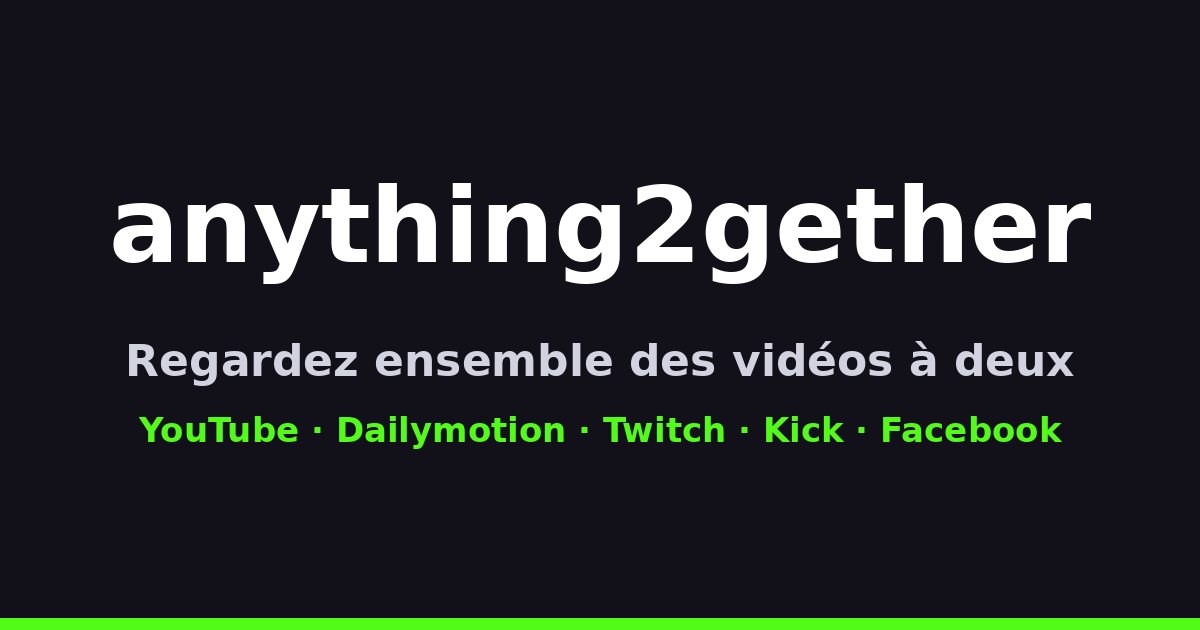
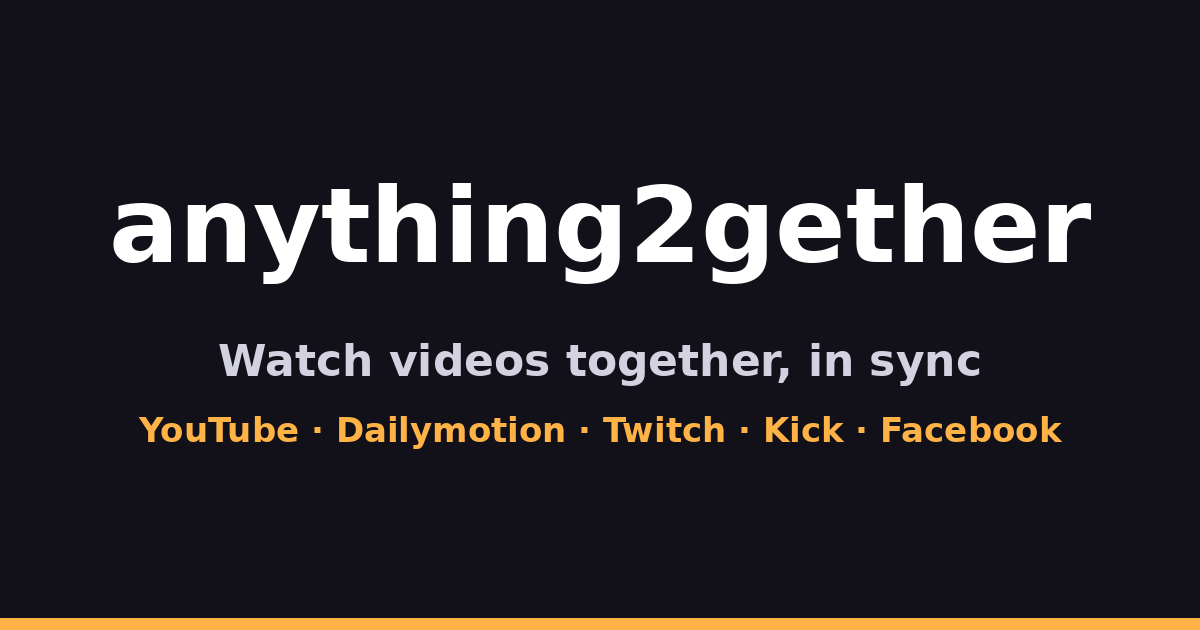
Add files via upload

diff --git a/js/app-3.js b/js/app-3.js
@@ -2833,7 +2833,7 @@
      Le service de comptes (Firebase) est chargé à part ; il annonce l'utilisateur par l'événement « a2g-user ».
      Connecté : le prénom vient du compte, et l'ID de salle est calculé à partir du compte (le même sur tous les appareils). */
   /* ---------- langue de l'accueil et nom affiché ---------- */
-  var I18N = {"fr": {"lede": "Regardez une vidéo à deux, en même temps, même à distance. Choisissez une vidéo publique (YouTube, Dailymotion, Twitch, Kick, Facebook) ou un fichier que vous possédez : la lecture, la pause et la position sont synchronisées, avec un chat à côté. Les fichiers passent directement entre vous, sans être stockés sur nos serveurs.", "name": "Ton pseudo", "theme": "🎨 Thème", "login": "Se connecter", "signup": "Créer un compte", "logout": "Se déconnecter", "f1": "Regarder ensemble des vidéos Dailymotion, YouTube, Twitch, Kick et Facebook", "f2": "Partage de fichier vidéo en direct", "f3": "Lecture, pause et avance synchronisées", "f4": "Chat, émojis et photos pendant le film", "f5": "Thème et fond d'écran partagés", "f6": "Sans serveur : le fichier passe directement entre vous", "create_h": "Créer une salle", "id_label": "Ton ID de salle", "devnote": "Fixe sur cet appareil. Ton ami a besoin de cet ID et du code ci-dessous.", "fixed_chk": "Garder toujours le même code", "fixed_lbl": "Ton code (6 lettres ou chiffres, modifiable)", "random": "Aléatoire", "create_btn": "Créer la salle", "join_h": "Rejoindre une salle", "join_id_lbl": "ID de la salle (9 chiffres)", "join_code_lbl": "Code d'accès (6 caractères)", "join_btn": "Rejoindre", "f_about": "À propos", "f_privacy": "Confidentialité", "f_terms": "Conditions", "f_contact": "Contact", "consent": "Ce site utilise des cookies et le stockage de ton navigateur pour fonctionner (préférences, session de salle). Si des publicités sont affichées, Google peut aussi utiliser des cookies pour les personnaliser.", "learn": "En savoir plus", "consent_ok": "J'ai compris", "err_name": "Choisis ton pseudo avant d'entrer dans la salle.", "au_home": "Accueil", "au_login_title": "Connectez-vous à votre compte", "au_signup_title": "Créez votre compte", "au_email": "E-mail", "au_pass": "Mot de passe", "au_show": "Afficher", "au_forgot": "Mot de passe oublié ?", "au_login_btn": "Connexion", "au_google": "Continuer avec Google", "au_to_signup": "Pas de compte ? Créez-en un", "au_have": "Vous avez déjà un compte ?", "au_login_link": "Connectez-vous !", "au_first": "Prénom", "au_last": "Nom", "au_pass_hint": "6 caractères minimum", "au_create": "Créer mon compte", "note": "Dans la salle, celui qui possède la vidéo la choisit. Pour un MP4, l'autre peut lancer la lecture après quelques secondes. Pour les autres formats, il faut attendre la fin du transfert. Gardez l'onglet ouvert.", "inv_pre": "Tu es invité dans la salle", "inv_own": "Créer ma propre salle", "legal_close": "Fermer", "r_copy": "Copier le lien", "r_wait": "En attente d'un ami…", "r_leave": "Quitter", "r_drop": "Il sera envoyé à ton ami, qui pourra le regarder pendant la réception. Si c'est lui qui l'a, attends qu'il le choisisse.", "r_pick": "Choisir un fichier vidéo", "r_ytdrop": "▶ Lire depuis une plateforme", "r_qtitle": "File d'attente", "r_qadd": "Ajouter des vidéos", "r_qclear": "Vider", "r_close": "Fermer", "r_tap": "Appuie pour lancer la lecture", "r_size": "Taille", "r_chat_hide": "Masquer le chat", "r_nov": "Aucune vidéo pour l'instant", "r_sync": "Synchroniser", "r_sync_tt": "Envoie ta position à tout le monde", "r_change": "Envoyer une vidéo", "r_yt": "▶ Lecture depuis plateformes", "r_theme": "🎨 Thème", "r_sub": "Sous-titres", "r_full": "Plein écran", "r_fit_contain": "Ajuster (tout voir)", "r_fit_cover": "Remplir (rogne les bords)", "r_fit_fill": "Étirer", "r_zoom": "Zoom", "r_chat": "Chat", "r_small": "Petit", "r_medium": "Moyen", "r_large": "Grand", "r_xlarge": "Très grand", "r_msg_ph": "Écrire un message…", "r_send": "Envoyer", "r_yt_title": "Lecture depuis plateformes", "r_choose_pf": "Choisis la plateforme", "r_back_pf": "← Autres plateformes", "r_go": "Lire pour tous", "r_stop": "Arrêter la lecture", "r_ytmsg": "YouTube : lecture, pause et avance sont synchronisées entre vous.", "r_url": "Lien de la vidéo", "scr_start": "🖥 Partager l'écran", "scr_stop": "⏹ Arrêter le partage", "scr_on": "Tu partages ton écran avec ton ami.", "scr_off": "Partage d'écran arrêté.", "scr_refused": "Partage d'écran annulé.", "scr_nosupport": "Le partage d'écran marche seulement sur ordinateur.", "src_file": "Fichier vidéo", "drop_title": "Choisis ta source", "r_url_spot": "Lien Spotify (titre, album ou playlist)", "pin_copy_id": "Copier l'ID", "pin_copy_code": "Copier le code", "sp_login": "Se connecter à Spotify", "sp_logged": "Connecté à Spotify : ", "sp_noid": "Connexion Spotify pas encore configurée.", "sp_fail": "La connexion Spotify a échoué. Réessaie.", "scr_label": "Partager l'écran", "scr_stop2": "Arrêter le partage", "sp_addr": "Adresse envoyée à Spotify : ", "sp_connecting": "Connexion en cours…", "sp_opened": "Spotify ouvert.", "sp_bad_link": "Ce lien n'est pas un lien Spotify (titre, album, playlist ou épisode).", "sp_logged_in": "Connecté à Spotify : ", "pf_yt_audio": "YouTube audio seul", "yt_audio_t": "Mode audio seul", "yt_audio_s": "La vidéo est masquée. Le son continue.", "yt_audio_play": "▶ Lire", "yt_audio_pause": "⏸ Pause", "yt_audio_change": "Choisir une autre vidéo ou playlist", "yt_audio_opt": "Audio seul (masquer la vidéo)", "multi_label": "Multi-vidéo", "multi_title": "Multi-vidéo (YouTube ou Twitch)", "multi_top": "Vidéo du haut (lien)", "multi_bottom": "Vidéo du bas (lien)", "multi_go": "Lancer", "multi_cancel": "Annuler", "multi_bad": "Les deux liens doivent être YouTube ou les deux Twitch, et valides.", "multi_opened": "Multi-vidéo ouverte. Les deux vidéos sont synchronisées.", "multi_fit_all": "Tout voir", "multi_fit_fill": "Remplir l'écran", "multi_manual": "La vidéo du bas ne démarre pas toute seule : appuie sur son bouton lecture.", "mv_stuck": "Une des deux vidéos ne répond pas. Clique une fois dedans pour l'activer."}, "en": {"lede": "Watch a video together, at the same time, even from a distance. Choose a public video (YouTube, Dailymotion, Twitch, Kick, Facebook) or a file you own: play, pause and position are synced, with a chat on the side. Files go directly between you, without being stored on our servers.", "name": "Your nickname", "theme": "🎨 Theme", "login": "Log in", "signup": "Create account", "logout": "Log out", "f1": "Watch Dailymotion, YouTube, Twitch, Kick and Facebook videos together", "f2": "Live video file sharing", "f3": "Synced play, pause and seek", "f4": "Chat, emojis and photos during the movie", "f5": "Shared theme and wallpaper", "f6": "No server: the file goes directly between you", "create_h": "Create a room", "id_label": "Your room ID", "devnote": "Fixed to this device. Your friend needs this ID and the code below.", "fixed_chk": "Always keep the same code", "fixed_lbl": "Your code (6 letters or digits, editable)", "random": "Random", "create_btn": "Create room", "join_h": "Join a room", "join_id_lbl": "Room ID (9 digits)", "join_code_lbl": "Access code (6 characters)", "join_btn": "Join", "f_about": "About", "f_privacy": "Privacy", "f_terms": "Terms", "f_contact": "Contact", "consent": "This site uses cookies and your browser storage to work (preferences, room session). If ads are shown, Google may also use cookies to personalize them.", "learn": "Learn more", "consent_ok": "Got it", "err_name": "Choose your nickname before entering the room.", "au_home": "Home", "au_login_title": "Log in to your account", "au_signup_title": "Create your account", "au_email": "Email", "au_pass": "Password", "au_show": "Show", "au_forgot": "Forgot password?", "au_login_btn": "Log in", "au_google": "Continue with Google", "au_to_signup": "No account? Create one", "au_have": "Already have an account?", "au_login_link": "Log in!", "au_first": "First name", "au_last": "Last name", "au_pass_hint": "At least 6 characters", "au_create": "Create my account", "note": "In the room, whoever has the video chooses it. For an MP4, the other can start playback after a few seconds. For other formats, you have to wait until the transfer finishes. Keep the tab open.", "inv_pre": "You are invited to room", "inv_own": "Create my own room", "legal_close": "Close", "r_copy": "Copy link", "r_wait": "Waiting for a friend…", "r_leave": "Leave", "r_drop": "It will be sent to your friend, who can watch it while it arrives. If they have it, wait for them to choose it.", "r_pick": "Choose a video file", "r_ytdrop": "▶ Play from a platform", "r_qtitle": "Queue", "r_qadd": "Add videos", "r_qclear": "Clear", "r_close": "Close", "r_tap": "Tap to start playback", "r_size": "Size", "r_chat_hide": "Hide chat", "r_nov": "No video yet", "r_sync": "Sync", "r_sync_tt": "Send your position to everyone", "r_change": "Send a video", "r_yt": "▶ Play from platforms", "r_theme": "🎨 Theme", "r_sub": "Subtitles", "r_full": "Fullscreen", "r_fit_contain": "Fit (show all)", "r_fit_cover": "Fill (crop edges)", "r_fit_fill": "Stretch", "r_zoom": "Zoom", "r_chat": "Chat", "r_small": "Small", "r_medium": "Medium", "r_large": "Large", "r_xlarge": "Extra large", "r_msg_ph": "Write a message…", "r_send": "Send", "r_yt_title": "Play from platforms", "r_choose_pf": "Choose the platform", "r_back_pf": "← Other platforms", "r_go": "Play for everyone", "r_stop": "Stop playback", "r_ytmsg": "YouTube: play, pause and seek are synced between you.", "r_url": "Video link", "scr_start": "🖥 Share screen", "scr_stop": "⏹ Stop sharing", "scr_on": "You are sharing your screen with your friend.", "scr_off": "Screen sharing stopped.", "scr_refused": "Screen sharing cancelled.", "scr_nosupport": "Screen sharing only works on a computer.", "src_file": "Video file", "drop_title": "Choose your source", "r_url_spot": "Spotify link (track, album or playlist)", "pin_copy_id": "Copy ID", "pin_copy_code": "Copy code", "sp_login": "Log in to Spotify", "sp_logged": "Logged in to Spotify: ", "sp_noid": "Spotify login is not configured yet.", "sp_fail": "Spotify login failed. Try again.", "scr_label": "Share screen", "scr_stop2": "Stop sharing", "sp_addr": "Address sent to Spotify: ", "sp_connecting": "Connecting…", "sp_opened": "Spotify opened.", "sp_bad_link": "This is not a Spotify link (track, album, playlist or episode).", "sp_logged_in": "Logged in to Spotify: ", "pf_yt_audio": "YouTube audio only", "yt_audio_t": "Audio-only mode", "yt_audio_s": "The video is hidden. The sound keeps playing.", "yt_audio_play": "▶ Play", "yt_audio_pause": "⏸ Pause", "yt_audio_change": "Choose another video or playlist", "yt_audio_opt": "Audio only (hide the video)", "multi_label": "Multi-video", "multi_title": "Multi-video (YouTube or Twitch)", "multi_top": "Top video (link)", "multi_bottom": "Bottom video (link)", "multi_go": "Start", "multi_cancel": "Cancel", "multi_bad": "Both links must be YouTube, or both Twitch, and valid.", "multi_opened": "Multi-video opened. Both videos are synced.", "multi_fit_all": "Show all", "multi_fit_fill": "Fill screen", "multi_manual": "The bottom video did not start by itself: press its play button.", "mv_stuck": "One of the two videos is not responding. Click inside it once to activate it."}, "ar": {"lede": "شاهدوا فيديو معاً في نفس الوقت، حتى من مسافات بعيدة. اختاروا فيديو عاماً (YouTube وDailymotion وTwitch وKick وFacebook) أو ملفاً تملكونه: التشغيل والإيقاف والموضع متزامنة، مع دردشة جانبية. تنتقل الملفات مباشرة بينكم دون تخزينها على خوادمنا.", "name": "اسمك المستعار", "theme": "🎨 المظهر", "login": "تسجيل الدخول", "signup": "إنشاء حساب", "logout": "تسجيل الخروج", "f1": "شاهدوا فيديوهات Dailymotion وYouTube وTwitch وKick وFacebook معاً", "f2": "مشاركة ملف الفيديو مباشرة", "f3": "تزامن التشغيل والإيقاف والتقديم", "f4": "دردشة وإيموجي وصور أثناء الفيلم", "f5": "مظهر وخلفية مشتركان", "f6": "بدون خادم: الملف ينتقل مباشرة بينكم", "create_h": "إنشاء غرفة", "id_label": "معرّف غرفتك", "devnote": "ثابت على هذا الجهاز. يحتاج صديقك إلى هذا المعرّف والرمز أدناه.", "fixed_chk": "الاحتفاظ دائماً بالرمز نفسه", "fixed_lbl": "رمزك (6 أحرف أو أرقام، قابل للتعديل)", "random": "عشوائي", "create_btn": "إنشاء الغرفة", "join_h": "الانضمام إلى غرفة", "join_id_lbl": "معرّف الغرفة (9 أرقام)", "join_code_lbl": "رمز الدخول (6 أحرف)", "join_btn": "انضمام", "f_about": "حول الموقع", "f_privacy": "الخصوصية", "f_terms": "الشروط", "f_contact": "اتصل بنا", "consent": "يستخدم هذا الموقع ملفات تعريف الارتباط وتخزين المتصفح ليعمل (التفضيلات، جلسة الغرفة). وإذا ظهرت إعلانات، فقد تستخدم Google ملفات تعريف الارتباط لتخصيصها.", "learn": "اعرف المزيد", "consent_ok": "فهمت", "err_name": "اختر اسمك المستعار قبل الدخول إلى الغرفة.", "au_home": "الرئيسية", "au_login_title": "سجّل الدخول إلى حسابك", "au_signup_title": "أنشئ حسابك", "au_email": "البريد الإلكتروني", "au_pass": "كلمة المرور", "au_show": "إظهار", "au_forgot": "نسيت كلمة المرور؟", "au_login_btn": "تسجيل الدخول", "au_google": "المتابعة باستخدام Google", "au_to_signup": "ليس لديك حساب؟ أنشئ حساباً", "au_have": "لديك حساب بالفعل؟", "au_login_link": "سجّل الدخول!", "au_first": "الاسم الأول", "au_last": "اسم العائلة", "au_pass_hint": "6 أحرف على الأقل", "au_create": "إنشاء حسابي", "note": "داخل الغرفة، من يملك الفيديو هو من يختاره. بالنسبة لملفات MP4 يمكن للطرف الآخر بدء التشغيل بعد ثوانٍ قليلة. أما الصيغ الأخرى فيجب انتظار انتهاء النقل. أبقِ الصفحة مفتوحة.", "inv_pre": "أنت مدعو إلى الغرفة", "inv_own": "أنشئ غرفتي الخاصة", "legal_close": "إغلاق", "r_copy": "نسخ الرابط", "r_wait": "بانتظار صديق…", "r_leave": "مغادرة", "r_drop": "سيُرسل إلى صديقك، الذي يمكنه مشاهدته أثناء الاستقبال. إذا كان هو من يملكه، فانتظر أن يختاره.", "r_pick": "اختر ملف فيديو", "r_ytdrop": "▶ التشغيل من منصة", "r_qtitle": "قائمة الانتظار", "r_qadd": "إضافة فيديوهات", "r_qclear": "تفريغ", "r_close": "إغلاق", "r_tap": "اضغط لبدء التشغيل", "r_size": "الحجم", "r_chat_hide": "إخفاء الدردشة", "r_nov": "لا يوجد فيديو بعد", "r_sync": "مزامنة", "r_sync_tt": "أرسل موضعك للجميع", "r_change": "إرسال فيديو", "r_yt": "▶ التشغيل من المنصات", "r_theme": "🎨 المظهر", "r_sub": "الترجمة", "r_full": "ملء الشاشة", "r_fit_contain": "ملاءمة (عرض الكل)", "r_fit_cover": "ملء (قص الحواف)", "r_fit_fill": "تمديد", "r_zoom": "تكبير", "r_chat": "الدردشة", "r_small": "صغير", "r_medium": "متوسط", "r_large": "كبير", "r_xlarge": "كبير جداً", "r_msg_ph": "اكتب رسالة…", "r_send": "إرسال", "r_yt_title": "التشغيل من المنصات", "r_choose_pf": "اختر المنصة", "r_back_pf": "منصات أخرى →", "r_go": "تشغيل للجميع", "r_stop": "إيقاف التشغيل", "r_ytmsg": "يوتيوب: التشغيل والإيقاف والتقديم متزامنة بينكم.", "r_url": "رابط الفيديو", "scr_start": "🖥 مشاركة الشاشة", "scr_stop": "⏹ إيقاف المشاركة", "scr_on": "أنت تشارك شاشتك مع صديقك.", "scr_off": "تم إيقاف مشاركة الشاشة.", "scr_refused": "تم إلغاء مشاركة الشاشة.", "scr_nosupport": "مشاركة الشاشة متاحة فقط على الحاسوب.", "src_file": "ملف فيديو", "drop_title": "اختر مصدر الفيديو", "r_url_spot": "رابط Spotify (مقطع أو ألبوم أو قائمة)", "pin_copy_id": "نسخ المعرّف", "pin_copy_code": "نسخ الرمز", "sp_login": "تسجيل الدخول إلى Spotify", "sp_logged": "متصل بـ Spotify: ", "sp_noid": "تسجيل الدخول إلى Spotify غير مُعد بعد.", "sp_fail": "فشل تسجيل الدخول إلى Spotify. حاول مرة أخرى.", "scr_label": "مشاركة الشاشة", "scr_stop2": "إيقاف المشاركة", "sp_addr": "العنوان المُرسل إلى Spotify: ", "sp_connecting": "جارٍ الاتصال…", "sp_opened": "تم فتح Spotify.", "sp_bad_link": "هذا ليس رابط Spotify (مقطع أو ألبوم أو قائمة أو حلقة).", "sp_logged_in": "متصل بـ Spotify: ", "pf_yt_audio": "YouTube صوت فقط", "yt_audio_t": "وضع الصوت فقط", "yt_audio_s": "الفيديو مخفي والصوت مستمر.", "yt_audio_play": "▶ تشغيل", "yt_audio_pause": "⏸ إيقاف مؤقت", "yt_audio_change": "اختيار فيديو أو قائمة أخرى", "yt_audio_opt": "صوت فقط (إخفاء الفيديو)", "multi_label": "فيديو متعدد", "multi_title": "فيديو متعدد (YouTube أو Twitch)", "multi_top": "الفيديو العلوي (رابط)", "multi_bottom": "الفيديو السفلي (رابط)", "multi_go": "ابدأ", "multi_cancel": "إلغاء", "multi_bad": "يجب أن يكون الرابطان من YouTube معاً أو من Twitch معاً، وصالحين.", "multi_opened": "تم فتح الفيديو المتعدد. الفيديوهان متزامنان.", "multi_fit_all": "عرض الكل", "multi_fit_fill": "ملء الشاشة", "multi_manual": "لم يبدأ الفيديو السفلي تلقائياً: اضغط على زر التشغيل الخاص به.", "mv_stuck": "إحدى الفيديوهين لا تستجيب. اضغط داخلها مرة واحدة لتفعيلها."}};
+  var I18N = {"fr": {"lede": "Regardez une vidéo à deux, en même temps, même à distance. Choisissez une vidéo publique (YouTube, Dailymotion, Twitch, Kick, Facebook) ou un fichier que vous possédez : la lecture, la pause et la position sont synchronisées, avec un chat à côté. Les fichiers passent directement entre vous, sans être stockés sur nos serveurs.", "name": "Ton pseudo", "theme": "🎨 Thème", "login": "Se connecter", "signup": "Créer un compte", "logout": "Se déconnecter", "f1": "Regarder ensemble des vidéos Dailymotion, YouTube, Twitch, Kick et Facebook", "f2": "Partage de fichier vidéo en direct", "f3": "Lecture, pause et avance synchronisées", "f4": "Chat, émojis et photos pendant le film", "f5": "Thème et fond d'écran partagés", "f6": "Sans serveur : le fichier passe directement entre vous", "create_h": "Créer une salle", "id_label": "Ton ID de salle", "devnote": "Fixe sur cet appareil. Ton ami a besoin de cet ID et du code ci-dessous.", "fixed_chk": "Garder toujours le même code", "fixed_lbl": "Ton code (6 lettres ou chiffres, modifiable)", "random": "Aléatoire", "create_btn": "Créer la salle", "join_h": "Rejoindre une salle", "join_id_lbl": "ID de la salle (9 chiffres)", "join_code_lbl": "Code d'accès (6 caractères)", "join_btn": "Rejoindre", "f_about": "À propos", "f_privacy": "Confidentialité", "f_terms": "Conditions", "f_contact": "Contact", "consent": "Ce site utilise des cookies et le stockage de ton navigateur pour fonctionner (préférences, session de salle). Si des publicités sont affichées, Google peut aussi utiliser des cookies pour les personnaliser.", "learn": "En savoir plus", "consent_ok": "J'ai compris", "err_name": "Choisis ton pseudo avant d'entrer dans la salle.", "au_home": "Accueil", "au_login_title": "Connectez-vous à votre compte", "au_signup_title": "Créez votre compte", "au_email": "E-mail", "au_pass": "Mot de passe", "au_show": "Afficher", "au_forgot": "Mot de passe oublié ?", "au_login_btn": "Connexion", "au_google": "Continuer avec Google", "au_to_signup": "Pas de compte ? Créez-en un", "au_have": "Vous avez déjà un compte ?", "au_login_link": "Connectez-vous !", "au_first": "Prénom", "au_last": "Nom", "au_pass_hint": "6 caractères minimum", "au_create": "Créer mon compte", "note": "Dans la salle, celui qui possède la vidéo la choisit. Pour un MP4, l'autre peut lancer la lecture après quelques secondes. Pour les autres formats, il faut attendre la fin du transfert. Gardez l'onglet ouvert.", "inv_pre": "Tu es invité dans la salle", "inv_own": "Créer ma propre salle", "legal_close": "Fermer", "r_copy": "Copier le lien", "r_wait": "En attente d'un ami…", "r_leave": "Quitter", "r_drop": "Il sera envoyé à ton ami, qui pourra le regarder pendant la réception. Si c'est lui qui l'a, attends qu'il le choisisse.", "r_pick": "Choisir un fichier vidéo", "r_ytdrop": "▶ Lire depuis une plateforme", "r_qtitle": "File d'attente", "r_qadd": "Ajouter des vidéos", "r_qclear": "Vider", "r_close": "Fermer", "r_tap": "Appuie pour lancer la lecture", "r_size": "Taille", "r_chat_hide": "Masquer le chat", "r_nov": "Aucune vidéo pour l'instant", "r_sync": "Synchroniser", "r_sync_tt": "Envoie ta position à tout le monde", "r_change": "Envoyer une vidéo", "r_yt": "▶ Lecture depuis plateformes", "r_theme": "🎨 Thème", "r_sub": "Sous-titres", "r_full": "Plein écran", "r_fit_contain": "Ajuster (tout voir)", "r_fit_cover": "Remplir (rogne les bords)", "r_fit_fill": "Étirer", "r_zoom": "Zoom", "r_chat": "Chat", "r_small": "Petit", "r_medium": "Moyen", "r_large": "Grand", "r_xlarge": "Très grand", "r_msg_ph": "Écrire un message…", "r_send": "Envoyer", "r_yt_title": "Lecture depuis plateformes", "r_choose_pf": "Choisis la plateforme", "r_back_pf": "← Autres plateformes", "r_go": "Lire pour tous", "r_stop": "Arrêter la lecture", "r_ytmsg": "YouTube : lecture, pause et avance sont synchronisées entre vous.", "r_url": "Lien de la vidéo", "scr_start": "🖥 Partager l'écran", "scr_stop": "⏹ Arrêter le partage", "scr_on": "Tu partages ton écran avec ton ami.", "scr_off": "Partage d'écran arrêté.", "scr_refused": "Partage d'écran annulé.", "scr_nosupport": "Le partage d'écran marche seulement sur ordinateur.", "src_file": "Fichier vidéo", "drop_title": "Choisis ta source", "r_url_spot": "Lien Spotify (titre, album ou playlist)", "pin_copy_id": "Copier l'ID", "pin_copy_code": "Copier le code", "sp_login": "Se connecter à Spotify", "sp_logged": "Connecté à Spotify : ", "sp_noid": "Connexion Spotify pas encore configurée.", "sp_fail": "La connexion Spotify a échoué. Réessaie.", "scr_label": "Partager l'écran", "scr_stop2": "Arrêter le partage", "sp_addr": "Adresse envoyée à Spotify : ", "sp_connecting": "Connexion en cours…", "sp_opened": "Spotify ouvert.", "sp_bad_link": "Ce lien n'est pas un lien Spotify (titre, album, playlist ou épisode).", "sp_logged_in": "Connecté à Spotify : ", "pf_yt_audio": "YouTube audio seul", "yt_audio_t": "Mode audio seul", "yt_audio_s": "La vidéo est masquée. Le son continue.", "yt_audio_play": "▶ Lire", "yt_audio_pause": "⏸ Pause", "yt_audio_change": "Choisir une autre vidéo ou playlist", "yt_audio_opt": "Audio seul (masquer la vidéo)", "multi_label": "Multi-vidéo", "multi_title": "Multi-vidéo (YouTube ou Twitch)", "multi_top": "Vidéo du haut (lien)", "multi_bottom": "Vidéo du bas (lien)", "multi_go": "Lancer", "multi_cancel": "Annuler", "multi_bad": "Les deux liens doivent être YouTube ou les deux Twitch, et valides.", "multi_opened": "Multi-vidéo ouverte. Les deux vidéos sont synchronisées.", "multi_fit_all": "Tout voir", "multi_fit_fill": "Remplir l'écran", "multi_manual": "La vidéo du bas ne démarre pas toute seule : appuie sur son bouton lecture.", "mv_stuck": "Une des deux vidéos ne répond pas. Clique une fois dedans pour l'activer.", "how_h": "Comment ça marche", "how_1": "Crée une salle, ou rejoins celle de ton ami avec son ID et son code.", "how_2": "Choisis une vidéo : un lien YouTube, Dailymotion, Twitch, Kick ou Facebook, ou un fichier de ton appareil.", "how_3": "Regardez ensemble : lecture, pause et position restent synchronisées, et vous pouvez discuter dans le chat.", "how_4": "Un compte n'est pas obligatoire."}, "en": {"lede": "Watch a video together, at the same time, even from a distance. Choose a public video (YouTube, Dailymotion, Twitch, Kick, Facebook) or a file you own: play, pause and position are synced, with a chat on the side. Files go directly between you, without being stored on our servers.", "name": "Your nickname", "theme": "🎨 Theme", "login": "Log in", "signup": "Create account", "logout": "Log out", "f1": "Watch Dailymotion, YouTube, Twitch, Kick and Facebook videos together", "f2": "Live video file sharing", "f3": "Synced play, pause and seek", "f4": "Chat, emojis and photos during the movie", "f5": "Shared theme and wallpaper", "f6": "No server: the file goes directly between you", "create_h": "Create a room", "id_label": "Your room ID", "devnote": "Fixed to this device. Your friend needs this ID and the code below.", "fixed_chk": "Always keep the same code", "fixed_lbl": "Your code (6 letters or digits, editable)", "random": "Random", "create_btn": "Create room", "join_h": "Join a room", "join_id_lbl": "Room ID (9 digits)", "join_code_lbl": "Access code (6 characters)", "join_btn": "Join", "f_about": "About", "f_privacy": "Privacy", "f_terms": "Terms", "f_contact": "Contact", "consent": "This site uses cookies and your browser storage to work (preferences, room session). If ads are shown, Google may also use cookies to personalize them.", "learn": "Learn more", "consent_ok": "Got it", "err_name": "Choose your nickname before entering the room.", "au_home": "Home", "au_login_title": "Log in to your account", "au_signup_title": "Create your account", "au_email": "Email", "au_pass": "Password", "au_show": "Show", "au_forgot": "Forgot password?", "au_login_btn": "Log in", "au_google": "Continue with Google", "au_to_signup": "No account? Create one", "au_have": "Already have an account?", "au_login_link": "Log in!", "au_first": "First name", "au_last": "Last name", "au_pass_hint": "At least 6 characters", "au_create": "Create my account", "note": "In the room, whoever has the video chooses it. For an MP4, the other can start playback after a few seconds. For other formats, you have to wait until the transfer finishes. Keep the tab open.", "inv_pre": "You are invited to room", "inv_own": "Create my own room", "legal_close": "Close", "r_copy": "Copy link", "r_wait": "Waiting for a friend…", "r_leave": "Leave", "r_drop": "It will be sent to your friend, who can watch it while it arrives. If they have it, wait for them to choose it.", "r_pick": "Choose a video file", "r_ytdrop": "▶ Play from a platform", "r_qtitle": "Queue", "r_qadd": "Add videos", "r_qclear": "Clear", "r_close": "Close", "r_tap": "Tap to start playback", "r_size": "Size", "r_chat_hide": "Hide chat", "r_nov": "No video yet", "r_sync": "Sync", "r_sync_tt": "Send your position to everyone", "r_change": "Send a video", "r_yt": "▶ Play from platforms", "r_theme": "🎨 Theme", "r_sub": "Subtitles", "r_full": "Fullscreen", "r_fit_contain": "Fit (show all)", "r_fit_cover": "Fill (crop edges)", "r_fit_fill": "Stretch", "r_zoom": "Zoom", "r_chat": "Chat", "r_small": "Small", "r_medium": "Medium", "r_large": "Large", "r_xlarge": "Extra large", "r_msg_ph": "Write a message…", "r_send": "Send", "r_yt_title": "Play from platforms", "r_choose_pf": "Choose the platform", "r_back_pf": "← Other platforms", "r_go": "Play for everyone", "r_stop": "Stop playback", "r_ytmsg": "YouTube: play, pause and seek are synced between you.", "r_url": "Video link", "scr_start": "🖥 Share screen", "scr_stop": "⏹ Stop sharing", "scr_on": "You are sharing your screen with your friend.", "scr_off": "Screen sharing stopped.", "scr_refused": "Screen sharing cancelled.", "scr_nosupport": "Screen sharing only works on a computer.", "src_file": "Video file", "drop_title": "Choose your source", "r_url_spot": "Spotify link (track, album or playlist)", "pin_copy_id": "Copy ID", "pin_copy_code": "Copy code", "sp_login": "Log in to Spotify", "sp_logged": "Logged in to Spotify: ", "sp_noid": "Spotify login is not configured yet.", "sp_fail": "Spotify login failed. Try again.", "scr_label": "Share screen", "scr_stop2": "Stop sharing", "sp_addr": "Address sent to Spotify: ", "sp_connecting": "Connecting…", "sp_opened": "Spotify opened.", "sp_bad_link": "This is not a Spotify link (track, album, playlist or episode).", "sp_logged_in": "Logged in to Spotify: ", "pf_yt_audio": "YouTube audio only", "yt_audio_t": "Audio-only mode", "yt_audio_s": "The video is hidden. The sound keeps playing.", "yt_audio_play": "▶ Play", "yt_audio_pause": "⏸ Pause", "yt_audio_change": "Choose another video or playlist", "yt_audio_opt": "Audio only (hide the video)", "multi_label": "Multi-video", "multi_title": "Multi-video (YouTube or Twitch)", "multi_top": "Top video (link)", "multi_bottom": "Bottom video (link)", "multi_go": "Start", "multi_cancel": "Cancel", "multi_bad": "Both links must be YouTube, or both Twitch, and valid.", "multi_opened": "Multi-video opened. Both videos are synced.", "multi_fit_all": "Show all", "multi_fit_fill": "Fill screen", "multi_manual": "The bottom video did not start by itself: press its play button.", "mv_stuck": "One of the two videos is not responding. Click inside it once to activate it.", "how_h": "How it works", "how_1": "Create a room, or join your friend's room with their ID and code.", "how_2": "Pick a video: a YouTube, Dailymotion, Twitch, Kick or Facebook link, or a file from your device.", "how_3": "Watch together: play, pause and position stay in sync, and you can chat as you watch.", "how_4": "An account is optional."}, "ar": {"lede": "شاهدوا فيديو معاً في نفس الوقت، حتى من مسافات بعيدة. اختاروا فيديو عاماً (YouTube وDailymotion وTwitch وKick وFacebook) أو ملفاً تملكونه: التشغيل والإيقاف والموضع متزامنة، مع دردشة جانبية. تنتقل الملفات مباشرة بينكم دون تخزينها على خوادمنا.", "name": "اسمك المستعار", "theme": "🎨 المظهر", "login": "تسجيل الدخول", "signup": "إنشاء حساب", "logout": "تسجيل الخروج", "f1": "شاهدوا فيديوهات Dailymotion وYouTube وTwitch وKick وFacebook معاً", "f2": "مشاركة ملف الفيديو مباشرة", "f3": "تزامن التشغيل والإيقاف والتقديم", "f4": "دردشة وإيموجي وصور أثناء الفيلم", "f5": "مظهر وخلفية مشتركان", "f6": "بدون خادم: الملف ينتقل مباشرة بينكم", "create_h": "إنشاء غرفة", "id_label": "معرّف غرفتك", "devnote": "ثابت على هذا الجهاز. يحتاج صديقك إلى هذا المعرّف والرمز أدناه.", "fixed_chk": "الاحتفاظ دائماً بالرمز نفسه", "fixed_lbl": "رمزك (6 أحرف أو أرقام، قابل للتعديل)", "random": "عشوائي", "create_btn": "إنشاء الغرفة", "join_h": "الانضمام إلى غرفة", "join_id_lbl": "معرّف الغرفة (9 أرقام)", "join_code_lbl": "رمز الدخول (6 أحرف)", "join_btn": "انضمام", "f_about": "حول الموقع", "f_privacy": "الخصوصية", "f_terms": "الشروط", "f_contact": "اتصل بنا", "consent": "يستخدم هذا الموقع ملفات تعريف الارتباط وتخزين المتصفح ليعمل (التفضيلات، جلسة الغرفة). وإذا ظهرت إعلانات، فقد تستخدم Google ملفات تعريف الارتباط لتخصيصها.", "learn": "اعرف المزيد", "consent_ok": "فهمت", "err_name": "اختر اسمك المستعار قبل الدخول إلى الغرفة.", "au_home": "الرئيسية", "au_login_title": "سجّل الدخول إلى حسابك", "au_signup_title": "أنشئ حسابك", "au_email": "البريد الإلكتروني", "au_pass": "كلمة المرور", "au_show": "إظهار", "au_forgot": "نسيت كلمة المرور؟", "au_login_btn": "تسجيل الدخول", "au_google": "المتابعة باستخدام Google", "au_to_signup": "ليس لديك حساب؟ أنشئ حساباً", "au_have": "لديك حساب بالفعل؟", "au_login_link": "سجّل الدخول!", "au_first": "الاسم الأول", "au_last": "اسم العائلة", "au_pass_hint": "6 أحرف على الأقل", "au_create": "إنشاء حسابي", "note": "داخل الغرفة، من يملك الفيديو هو من يختاره. بالنسبة لملفات MP4 يمكن للطرف الآخر بدء التشغيل بعد ثوانٍ قليلة. أما الصيغ الأخرى فيجب انتظار انتهاء النقل. أبقِ الصفحة مفتوحة.", "inv_pre": "أنت مدعو إلى الغرفة", "inv_own": "أنشئ غرفتي الخاصة", "legal_close": "إغلاق", "r_copy": "نسخ الرابط", "r_wait": "بانتظار صديق…", "r_leave": "مغادرة", "r_drop": "سيُرسل إلى صديقك، الذي يمكنه مشاهدته أثناء الاستقبال. إذا كان هو من يملكه، فانتظر أن يختاره.", "r_pick": "اختر ملف فيديو", "r_ytdrop": "▶ التشغيل من منصة", "r_qtitle": "قائمة الانتظار", "r_qadd": "إضافة فيديوهات", "r_qclear": "تفريغ", "r_close": "إغلاق", "r_tap": "اضغط لبدء التشغيل", "r_size": "الحجم", "r_chat_hide": "إخفاء الدردشة", "r_nov": "لا يوجد فيديو بعد", "r_sync": "مزامنة", "r_sync_tt": "أرسل موضعك للجميع", "r_change": "إرسال فيديو", "r_yt": "▶ التشغيل من المنصات", "r_theme": "🎨 المظهر", "r_sub": "الترجمة", "r_full": "ملء الشاشة", "r_fit_contain": "ملاءمة (عرض الكل)", "r_fit_cover": "ملء (قص الحواف)", "r_fit_fill": "تمديد", "r_zoom": "تكبير", "r_chat": "الدردشة", "r_small": "صغير", "r_medium": "متوسط", "r_large": "كبير", "r_xlarge": "كبير جداً", "r_msg_ph": "اكتب رسالة…", "r_send": "إرسال", "r_yt_title": "التشغيل من المنصات", "r_choose_pf": "اختر المنصة", "r_back_pf": "منصات أخرى →", "r_go": "تشغيل للجميع", "r_stop": "إيقاف التشغيل", "r_ytmsg": "يوتيوب: التشغيل والإيقاف والتقديم متزامنة بينكم.", "r_url": "رابط الفيديو", "scr_start": "🖥 مشاركة الشاشة", "scr_stop": "⏹ إيقاف المشاركة", "scr_on": "أنت تشارك شاشتك مع صديقك.", "scr_off": "تم إيقاف مشاركة الشاشة.", "scr_refused": "تم إلغاء مشاركة الشاشة.", "scr_nosupport": "مشاركة الشاشة متاحة فقط على الحاسوب.", "src_file": "ملف فيديو", "drop_title": "اختر مصدر الفيديو", "r_url_spot": "رابط Spotify (مقطع أو ألبوم أو قائمة)", "pin_copy_id": "نسخ المعرّف", "pin_copy_code": "نسخ الرمز", "sp_login": "تسجيل الدخول إلى Spotify", "sp_logged": "متصل بـ Spotify: ", "sp_noid": "تسجيل الدخول إلى Spotify غير مُعد بعد.", "sp_fail": "فشل تسجيل الدخول إلى Spotify. حاول مرة أخرى.", "scr_label": "مشاركة الشاشة", "scr_stop2": "إيقاف المشاركة", "sp_addr": "العنوان المُرسل إلى Spotify: ", "sp_connecting": "جارٍ الاتصال…", "sp_opened": "تم فتح Spotify.", "sp_bad_link": "هذا ليس رابط Spotify (مقطع أو ألبوم أو قائمة أو حلقة).", "sp_logged_in": "متصل بـ Spotify: ", "pf_yt_audio": "YouTube صوت فقط", "yt_audio_t": "وضع الصوت فقط", "yt_audio_s": "الفيديو مخفي والصوت مستمر.", "yt_audio_play": "▶ تشغيل", "yt_audio_pause": "⏸ إيقاف مؤقت", "yt_audio_change": "اختيار فيديو أو قائمة أخرى", "yt_audio_opt": "صوت فقط (إخفاء الفيديو)", "multi_label": "فيديو متعدد", "multi_title": "فيديو متعدد (YouTube أو Twitch)", "multi_top": "الفيديو العلوي (رابط)", "multi_bottom": "الفيديو السفلي (رابط)", "multi_go": "ابدأ", "multi_cancel": "إلغاء", "multi_bad": "يجب أن يكون الرابطان من YouTube معاً أو من Twitch معاً، وصالحين.", "multi_opened": "تم فتح الفيديو المتعدد. الفيديوهان متزامنان.", "multi_fit_all": "عرض الكل", "multi_fit_fill": "ملء الشاشة", "multi_manual": "لم يبدأ الفيديو السفلي تلقائياً: اضغط على زر التشغيل الخاص به.", "mv_stuck": "إحدى الفيديوهين لا تستجيب. اضغط داخلها مرة واحدة لتفعيلها.", "how_h": "كيف يعمل", "how_1": "أنشئ غرفة، أو انضم إلى غرفة صديقك بمعرّفها ورمزها.", "how_2": "اختر فيديو: رابطاً من YouTube أو Dailymotion أو Twitch أو Kick أو Facebook، أو ملفاً من جهازك.", "how_3": "شاهدا معاً: التشغيل والإيقاف والموضع تبقى متزامنة، ويمكنكما الدردشة أثناء المشاهدة.", "how_4": "الحساب اختياري."}};
   var LANG_NAMES = { fr: 'Français', en: 'English', ar: 'العربية' };
   function pickLang() {
     var s = ''; try { s = localStorage.getItem('a2g-lang') || ''; } catch (e) {}

diff --git a/index.html b/index.html
@@ -8,16 +8,16 @@
 <link rel="canonical" href="https://toumiachraf9.github.io/samarafseries/">
 <meta property="og:type" content="website">
 <meta property="og:site_name" content="anything2gether">
-<meta property="og:locale" content="fr_FR">
-<meta property="og:title" content="anything2gether : regardez des vidéos à deux">
-<meta property="og:description" content="anything2gether : regardez ensemble des vidéos publiques (YouTube, Dailymotion, Twitch, Kick, Facebook) ou vos propres fichiers, en synchronisation, avec un chat. Gratuit ; les vidéos ne sont pas stockées sur nos serveurs.">
+<meta property="og:locale" content="en_US">
+<meta property="og:title" content="anything2gether: watch videos together">
+<meta property="og:description" content="Watch public videos together, in sync, with a chat. Free, and videos are not stored on our servers.">
 <meta property="og:url" content="https://toumiachraf9.github.io/samarafseries/">
 <meta property="og:image" content="https://toumiachraf9.github.io/samarafseries/assets/og-image.png">
 <meta property="og:image:width" content="1200">
 <meta property="og:image:height" content="630">
 <meta name="twitter:card" content="summary_large_image">
-<meta name="twitter:title" content="anything2gether : regardez des vidéos à deux">
-<meta name="twitter:description" content="anything2gether : regardez ensemble des vidéos publiques (YouTube, Dailymotion, Twitch, Kick, Facebook) ou vos propres fichiers, en synchronisation, avec un chat. Gratuit ; les vidéos ne sont pas stockées sur nos serveurs.">
+<meta name="twitter:title" content="anything2gether: watch videos together">
+<meta name="twitter:description" content="Watch public videos together, in sync, with a chat. Free, and videos are not stored on our servers.">
 <meta name="twitter:image" content="https://toumiachraf9.github.io/samarafseries/assets/og-image.png">
 <meta name="theme-color" content="#12111a">
 <link rel="icon" type="image/png" sizes="64x64" href="assets/icon-01-5e150412.png">
@@ -398,6 +398,9 @@
   .home-acct { display: flex; align-items: center; gap: 8px; }
   .lang-sel { font: inherit; font-size: 13px; padding: 6px 8px; border-radius: 8px; border: 1px solid var(--line); background: rgba(18, 17, 26, 0.6); color: #fff; max-width: 130px; }
   .lang-sel option { background: #1b1926; color: #fff; }
+  .how { margin-top: 16px; }
+  .how h2 { font-family: var(--f-display); font-size: 15px; color: var(--accent); margin: 0; }
+  @media (max-height: 640px) { .how { display: none; } }
   .features { list-style: none; padding: 0; margin: 14px 0 0; display: grid; gap: 7px; max-width: 520px; text-align: start; }
   .features li { position: relative; padding-inline-start: 22px; font-size: 14px; line-height: 1.4; text-shadow: 0 1px 8px rgba(0, 0, 0, 0.55); }
   .features li::before { content: "✦"; position: absolute; inset-inline-start: 0; top: 0; color: var(--accent); }
@@ -565,6 +568,7 @@
   <div class="intro-box">
       <p class="lede" id="lede" data-i18n="lede">Regardez une vidéo à deux, en même temps, même à distance. Choisissez une vidéo publique (YouTube, Dailymotion, Twitch, Kick, Facebook) ou un fichier que vous possédez : la lecture, la pause et la position sont synchronisées, avec un chat à côté. Les fichiers passent directement entre vous, sans être stockés sur nos serveurs.</p>
       <ul class="features" aria-label="Fonctionnalités"><li data-i18n="f1">Regarder ensemble des vidéos Dailymotion, YouTube, Twitch, Kick et Facebook</li><li data-i18n="f2">Partage de fichier vidéo en direct</li><li data-i18n="f3">Lecture, pause et avance synchronisées</li><li data-i18n="f4">Chat, émojis et photos pendant le film</li><li data-i18n="f5">Thème et fond d'écran partagés</li><li data-i18n="f6">Sans serveur : le fichier passe directement entre vous</li></ul>
+      <section class="how" aria-labelledby="how-h"><h2 id="how-h" data-i18n="how_h">Comment ça marche</h2><ul class="features" aria-label="Comment ça marche"><li data-i18n="how_1">Crée une salle, ou rejoins celle de ton ami avec son ID et son code.</li><li data-i18n="how_2">Choisis une vidéo : un lien YouTube, Dailymotion, Twitch, Kick ou Facebook, ou un fichier de ton appareil.</li><li data-i18n="how_3">Regardez ensemble : lecture, pause et position restent synchronisées, et vous pouvez discuter dans le chat.</li><li data-i18n="how_4">Un compte n'est pas obligatoire.</li></ul></section>
       </div>
   <footer class="site-foot">
     <button class="linkbtn" type="button" data-legal="about" data-i18n="f_about">À propos</button>
